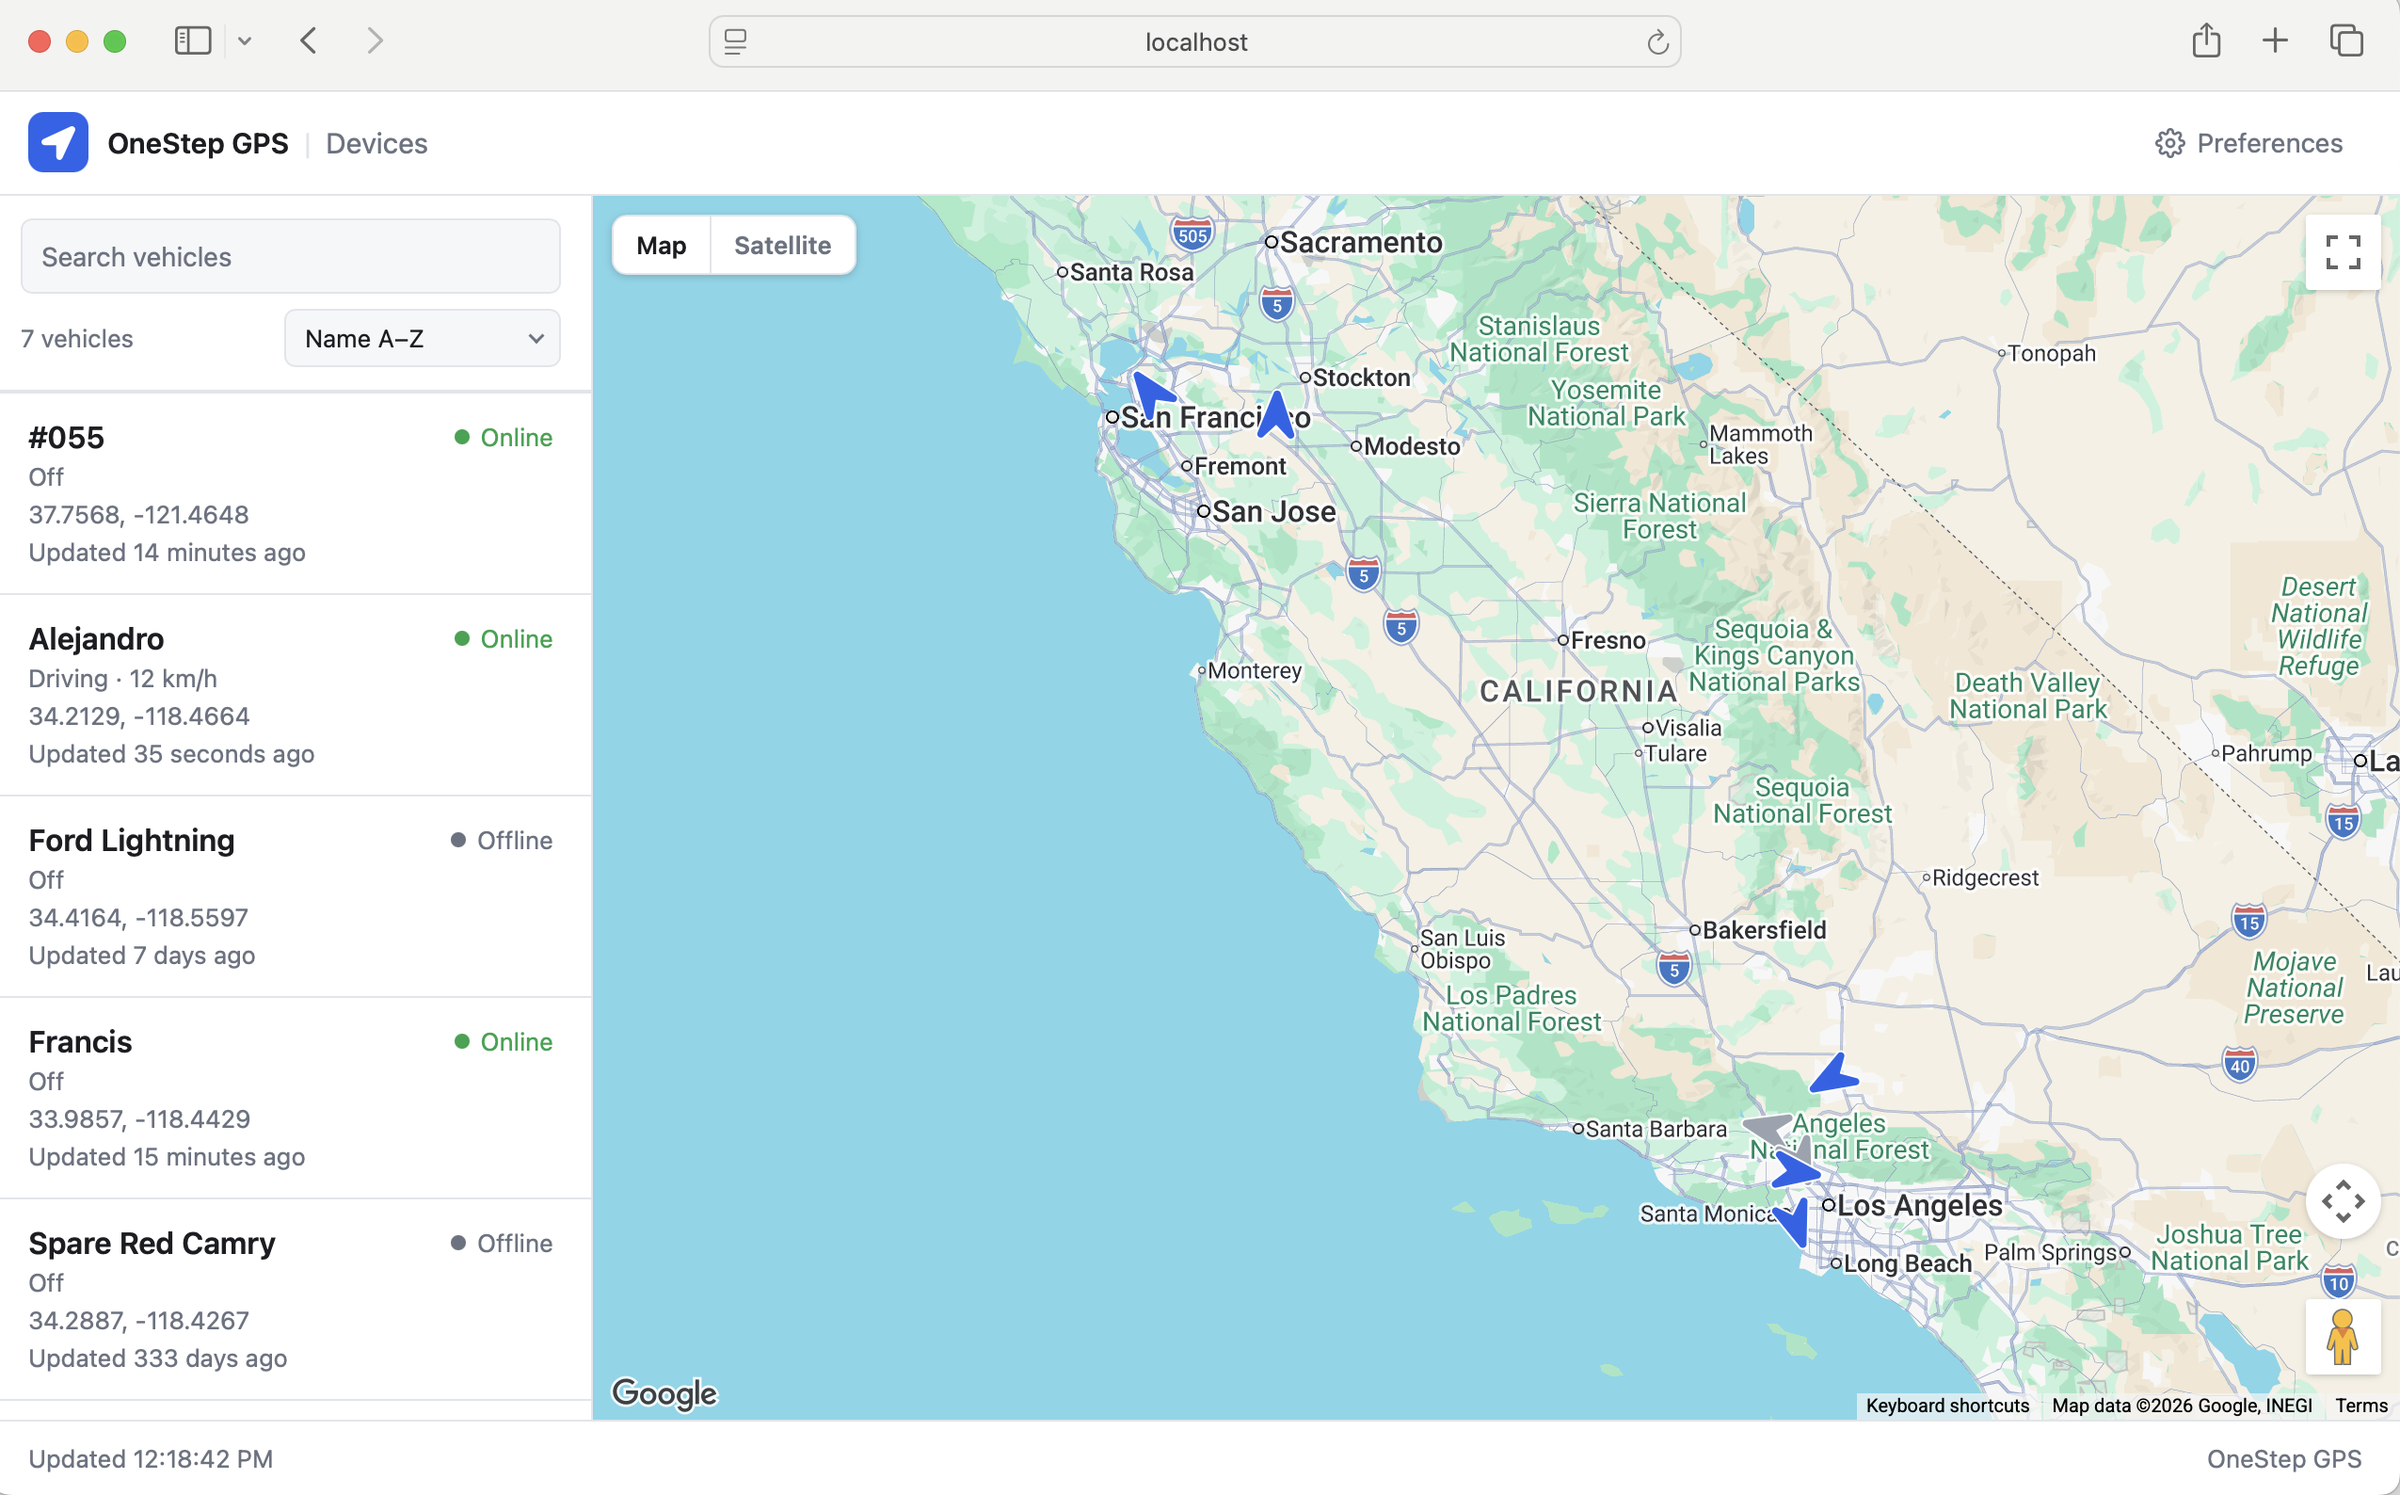
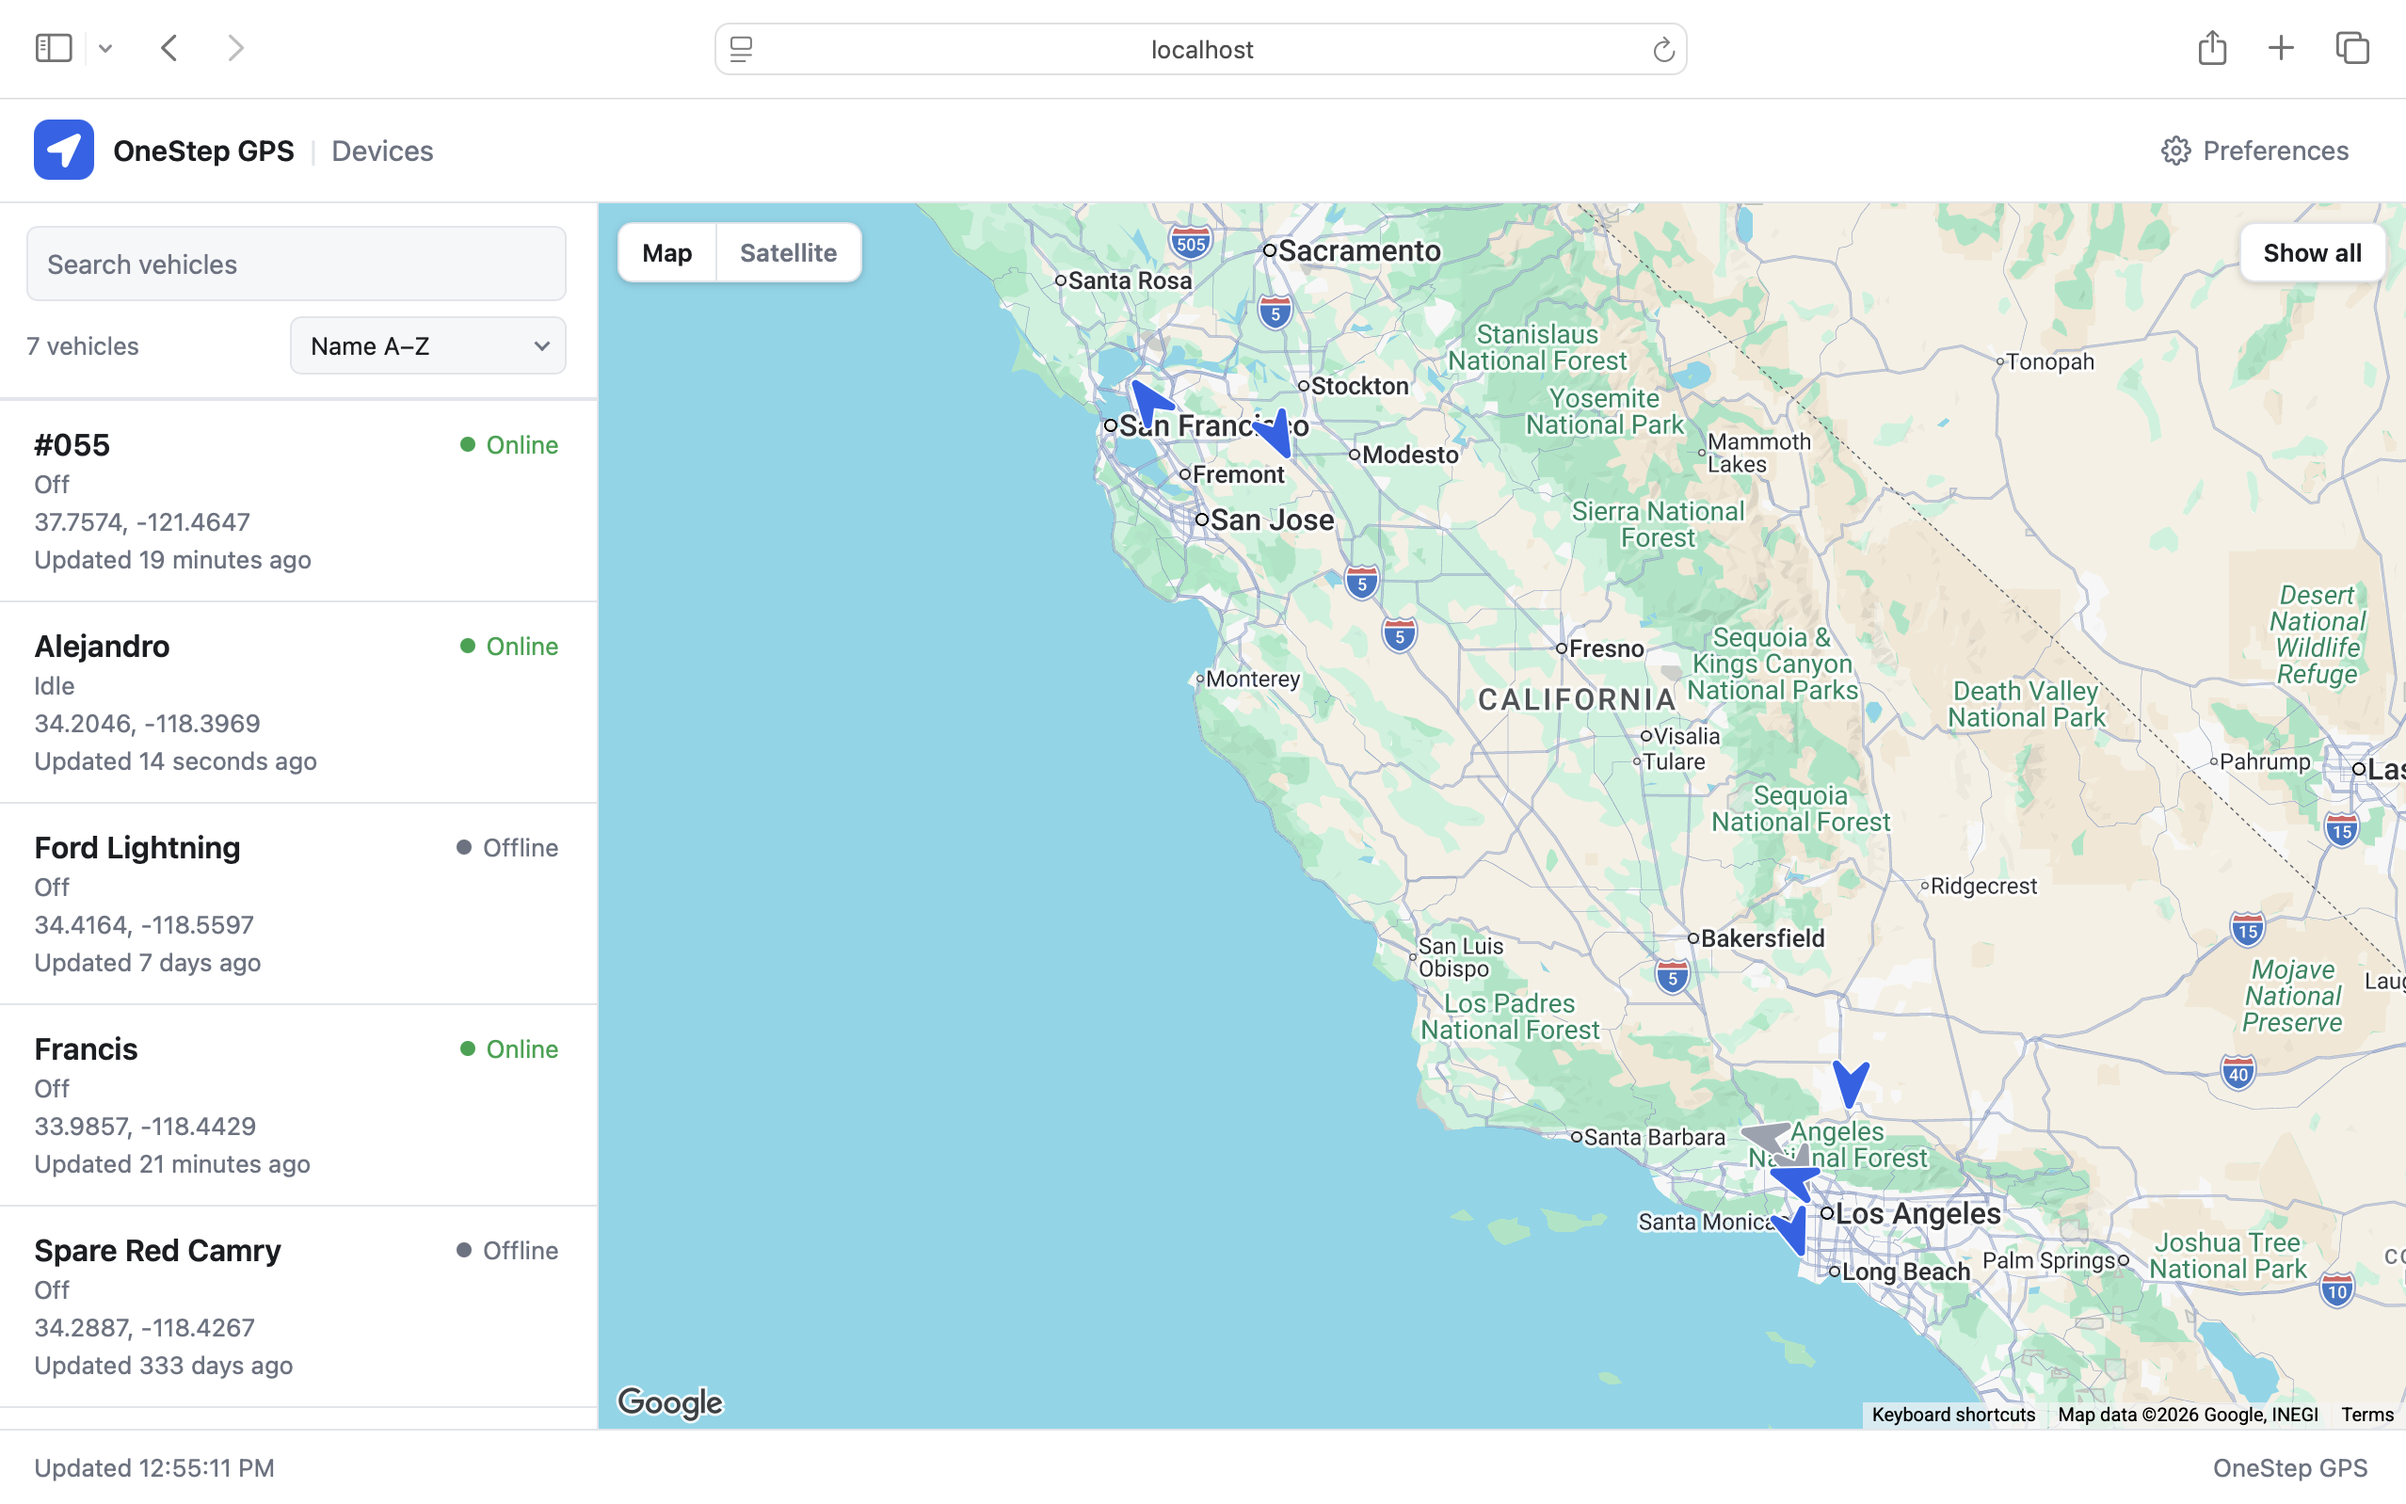
Replace default map controls with a Show All button to reset camera and selection
- Disable Google Maps default UI (Street View Pegman, zoom buttons, fullscreen control)
- Add top-right "Show all" button to refit bounds to all visible vehicles
- Clear currently selected vehicle on "Show all" click so subsequent clicks refocus properly
- Trigger camera refit in GoogleMapFitBounds via fitNonce watcher
- Update README and screenshots with new map UI

diff --git a/ui/src/components/layout/AppMapPane.vue b/ui/src/components/layout/AppMapPane.vue
@@ -12,10 +12,12 @@ const props = defineProps<{
   selectedDeviceId: string | null
   focusNonce: number
   mapType: string
+  fitNonce: number
 }>()
 
 const emit = defineEmits<{
   'update:mapType': [value: string]
+  showAll: []
 }>()
 
 const apiKey = import.meta.env.VITE_GOOGLE_MAPS_API_KEY ?? ''
@@ -23,7 +25,7 @@ const apiKey = import.meta.env.VITE_GOOGLE_MAPS_API_KEY ?? ''
 const mapConfig = computed<google.maps.MapOptions>(() => ({
   center: { lat: 34.05, lng: -118.25 },
   zoom: 9,
-  mapTypeControl: false,
+  disableDefaultUI: true,
   mapTypeId: props.mapType === 'satellite' ? 'hybrid' : 'roadmap',
 }))
 
@@ -82,6 +84,7 @@ const focusTarget = computed(() => {
           :map="map"
           :points="mapPoints"
           :device-ids="locatedDeviceIds"
+          :fit-nonce="fitNonce"
         />
         <GoogleMapFocus :map="map" :target="focusTarget" />
         <GoogleMapApplyType :map="map" :map-type="mapType" />
@@ -103,6 +106,7 @@ const focusTarget = computed(() => {
             Satellite
           </button>
         </div>
+        <button type="button" class="show-all" @click="emit('showAll')">Show all</button>
       </template>
     </GoogleMapLoader>
   </section>
@@ -151,6 +155,28 @@ const focusTarget = computed(() => {
 }
 
 .map-type button:hover {
+  background: var(--hover);
+}
+
+.show-all {
+  position: absolute;
+  top: 10px;
+  right: 10px;
+  z-index: 1;
+  margin: 0;
+  padding: 7px 12px;
+  border: 1px solid var(--border);
+  border-radius: 8px;
+  background: var(--surface);
+  box-shadow: 0 1px 4px rgb(0 0 0 / 18%);
+  color: var(--text);
+  font: inherit;
+  font-size: 13px;
+  font-weight: 600;
+  cursor: pointer;
+}
+
+.show-all:hover {
   background: var(--hover);
 }
 </style>

diff --git a/ui/src/components/layout/AppShell.vue b/ui/src/components/layout/AppShell.vue
@@ -23,6 +23,7 @@ const {
 } = usePreferences()
 const selectedDeviceId = ref<string | null>(null)
 const focusNonce = ref(0)
+const fitNonce = ref(0)
 const preferencesOpen = ref(false)
 const searchQuery = ref('')
 const currentSort = ref(defaultPreferences().sort)
@@ -88,6 +89,11 @@ const displayedDevices = computed(() => {
 function selectDevice(id: string) {
   selectedDeviceId.value = id
   focusNonce.value += 1
+}
+
+function showAll() {
+  selectedDeviceId.value = null
+  fitNonce.value += 1
 }
 
 function openPreferences() {
@@ -170,8 +176,10 @@ onMounted(() => {
         :devices="displayedDevices"
         :selected-device-id="selectedDeviceId"
         :focus-nonce="focusNonce"
+        :fit-nonce="fitNonce"
         :map-type="currentMapType"
         @update:map-type="changeMapType"
+        @show-all="showAll"
       />
     </div>
     <AppFooter :last-updated="lastUpdated" :refresh-error="refreshError" />

diff --git a/ui/src/components/map/GoogleMapFitBounds.vue b/ui/src/components/map/GoogleMapFitBounds.vue
@@ -6,6 +6,7 @@ const props = defineProps<{
   map: google.maps.Map
   points: { lat: number; lng: number }[]
   deviceIds: string[]
+  fitNonce: number
 }>()
 
 function fit() {
@@ -29,7 +30,7 @@ function fit() {
 }
 
 watch(
-  () => [...props.deviceIds].sort().join(','),
+  () => [[...props.deviceIds].sort().join(','), props.fitNonce] as const,
   fit,
   { immediate: true },
 )

diff --git a/README.md b/README.md
@@ -86,7 +86,7 @@ HTTP endpoints live in the [server README](server/README.md#api).
 - Google Maps device locations
 - 5-second background refresh
 - Heading / online map markers
-- Fleet search
+- Fleet search by name
 - SQLite preferences
   - Sort order
   - Hidden devices
